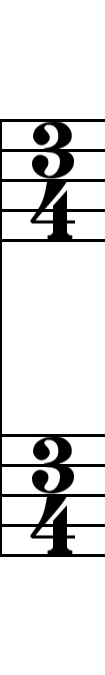
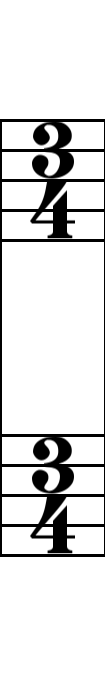
Draw barlines at the start an end of each system
Also fix barline layer alignment and update mxml for placement fixes

Changed region(s): [[0.9714, 0.1867, 1.0, 0.84]]

diff --git a/MusicKit/Layers/VMKMeasureLayer.mm b/MusicKit/Layers/VMKMeasureLayer.mm
@@ -28,8 +28,8 @@
 using namespace mxml;
 using namespace mxml::dom;
 
-static const CGFloat kStaffLineWidth = 1.f;
-static const CGFloat kBarLineWidth = 1;
+const CGFloat VMKStaffLineWidth = 1.f;
+const CGFloat VMKBarLineWidth = 1;
 
 
 @interface VMKMeasureLayer ()
@@ -208,23 +208,23 @@ static const CGFloat kBarLineWidth = 1;
     CGRect lineRect;
 
     // Draw bar lines
-    lineRect.origin.x = -kBarLineWidth/2;
-    lineRect.origin.y = -kStaffLineWidth/2;
-    lineRect.size.width = kBarLineWidth;
-    lineRect.size.height = stavesHeight + kStaffLineWidth;
+    lineRect.origin.x = -VMKBarLineWidth/2;
+    lineRect.origin.y = -VMKStaffLineWidth/2;
+    lineRect.size.width = VMKBarLineWidth;
+    lineRect.size.height = stavesHeight + VMKStaffLineWidth;
     CGContextFillRect(ctx, VMKRoundRect(lineRect));
 
-    lineRect.origin.x = size.width - kBarLineWidth/2;
-    lineRect.origin.y = -kStaffLineWidth/2;
-    lineRect.size.width = kBarLineWidth;
-    lineRect.size.height = stavesHeight + kStaffLineWidth;
+    lineRect.origin.x = size.width - VMKBarLineWidth/2;
+    lineRect.origin.y = -VMKStaffLineWidth/2;
+    lineRect.size.width = VMKBarLineWidth;
+    lineRect.size.height = stavesHeight + VMKStaffLineWidth;
     CGContextFillRect(ctx, VMKRoundRect(lineRect));
 
     // Draw staves
     lineRect.origin = CGPointZero;
-    lineRect.origin.y -= kStaffLineWidth/2;
+    lineRect.origin.y -= VMKStaffLineWidth/2;
     lineRect.size.width = size.width;
-    lineRect.size.height = kStaffLineWidth;
+    lineRect.size.height = VMKStaffLineWidth;
     for (int staff = 1; staff <= staves; staff += 1) {
         for (NSUInteger line = 0; line < Metrics::kStaffLineCount; line += 1) {
             CGContextFillRect(ctx, VMKRoundRect(lineRect));
@@ -249,9 +249,9 @@ static const CGFloat kBarLineWidth = 1;
     CGRect lineRect;
     lineRect.origin = CGPointFromPoint(self.geometry->convertFromGeometry(noteGeom->origin(), noteGeom->parentGeometry()));
     lineRect.origin.x -= 2;
-    lineRect.origin.y = staffOrigin - kStaffLineWidth/2;
+    lineRect.origin.y = staffOrigin - VMKStaffLineWidth/2;
     lineRect.size.width = noteGeom->size().width + 4;
-    lineRect.size.height = kStaffLineWidth;
+    lineRect.size.height = VMKStaffLineWidth;
     
     CGFloat y = staffOrigin - Metrics::kStaffLineSpacing/2;
     while (noteGeom->location().y < y) {
@@ -260,7 +260,7 @@ static const CGFloat kBarLineWidth = 1;
         CGContextFillRect(ctx, VMKRoundRect(lineRect));
     }
     
-    lineRect.origin.y = (staffOrigin + Metrics::staffHeight()) - kStaffLineWidth/2;
+    lineRect.origin.y = (staffOrigin + Metrics::staffHeight()) - VMKStaffLineWidth/2;
     y = staffOrigin + Metrics::staffHeight() + Metrics::kStaffLineSpacing/2;
     while (noteGeom->location().y > y) {
         y += Metrics::kStaffLineSpacing;
@@ -275,9 +275,9 @@ static const CGFloat kBarLineWidth = 1;
     CGRect lineRect;
     lineRect.origin = CGPointFromPoint(self.geometry->convertFromGeometry(noteGeom->origin(), noteGeom->parentGeometry()));
     lineRect.origin.x -= 2;
-    lineRect.origin.y = staffOrigin - kStaffLineWidth/2;
+    lineRect.origin.y = staffOrigin - VMKStaffLineWidth/2;
     lineRect.size.width = noteGeom->size().width + 4;
-    lineRect.size.height = kStaffLineWidth;
+    lineRect.size.height = VMKStaffLineWidth;
 
     CGFloat y = staffOrigin - Metrics::kStaffLineSpacing/2;
     while (noteGeom->location().y < y) {
@@ -286,7 +286,7 @@ static const CGFloat kBarLineWidth = 1;
         CGContextFillRect(ctx, VMKRoundRect(lineRect));
     }
 
-    lineRect.origin.y = (staffOrigin + Metrics::staffHeight()) - kStaffLineWidth/2;
+    lineRect.origin.y = (staffOrigin + Metrics::staffHeight()) - VMKStaffLineWidth/2;
     y = staffOrigin + Metrics::staffHeight() + Metrics::kStaffLineSpacing/2;
     while (noteGeom->location().y > y) {
         y += Metrics::kStaffLineSpacing;

diff --git a/MusicKit/Layers/VMKSystemLayer.mm b/MusicKit/Layers/VMKSystemLayer.mm
@@ -1,7 +1,9 @@
 //  Copyright (c) 2015 Venture Media Labs. All rights reserved.
 
-#import "VMKSystemLayer.h"
+#import "VMKGeometry.h"
+#import "VMKMeasureLayer.h"
 #import "VMKPartLayer.h"
+#import "VMKSystemLayer.h"
 
 
 @interface VMKSystemLayer ()
@@ -49,6 +51,7 @@
     if (geometry)
         [self createSublayers];
     [self setNeedsLayout];
+    [self setNeedsDisplay];
 }
 
 - (void)clearSublayers {
@@ -78,6 +81,37 @@
         layer.hidden = NO;
 
         [self.partLayers addObject:layer];
+    }
+}
+
+- (void)drawInContext:(CGContextRef)ctx {
+    CGContextSetFillColorWithColor(ctx, self.backgroundColor);
+    CGContextFillRect(ctx, self.bounds);
+
+    CGContextSetFillColorWithColor(ctx, self.foregroundColor);
+
+    CGSize size = self.bounds.size;
+    auto systemGeometry = self.systemGeometry;
+    for (std::size_t partIndex = 0; partIndex < systemGeometry->partGeometries().size(); partIndex += 1) {
+        auto& partGeometry = systemGeometry->partGeometries().at(partIndex);
+        auto& measureGeometry = partGeometry->measureGeometries().at(0);
+
+        CGFloat stavesHeight = partGeometry->stavesHeight();
+        auto origin = measureGeometry->convertToGeometry({0, 0}, systemGeometry);
+        CGRect lineRect;
+
+        // Draw bar lines
+        lineRect.origin.x = 0;
+        lineRect.origin.y = origin.y - VMKStaffLineWidth/2;
+        lineRect.size.width = VMKBarLineWidth;
+        lineRect.size.height = stavesHeight + VMKStaffLineWidth;
+        CGContextFillRect(ctx, VMKRoundRect(lineRect));
+
+        lineRect.origin.x = size.width - VMKBarLineWidth;
+        lineRect.origin.y = origin.y - VMKStaffLineWidth/2;
+        lineRect.size.width = VMKBarLineWidth;
+        lineRect.size.height = stavesHeight + VMKStaffLineWidth;
+        CGContextFillRect(ctx, VMKRoundRect(lineRect));
     }
 }
 

diff --git a/MusicKit/Layers/VMKBarlineLayer.mm b/MusicKit/Layers/VMKBarlineLayer.mm
@@ -2,6 +2,7 @@
 
 #import "VMKBarlineLayer.h"
 #import "VMKImageStore.h"
+#import "VMKMeasureLayer.h"
 
 #import <mxml/Metrics.h>
 
@@ -29,6 +30,11 @@ static const CGFloat kLineSpacing = 2;
 
 - (void)setGeometry:(const mxml::Geometry*)geom {
     [super setGeometry:geom];
+
+    CGRect bounds = self.bounds;
+    bounds.size.height += VMKStaffLineWidth;
+    self.bounds = bounds;
+    
     [self setNeedsDisplay];
 }
 

diff --git a/MusicKit/Layers/VMKMeasureLayer.h b/MusicKit/Layers/VMKMeasureLayer.h
@@ -3,6 +3,9 @@
 #import "VMKScoreElementLayer.h"
 #include <mxml/geometry/MeasureGeometry.h>
 
+extern const CGFloat VMKStaffLineWidth;
+extern const CGFloat VMKBarLineWidth;
+
 
 @interface VMKMeasureLayer : VMKScoreElementLayer
 
